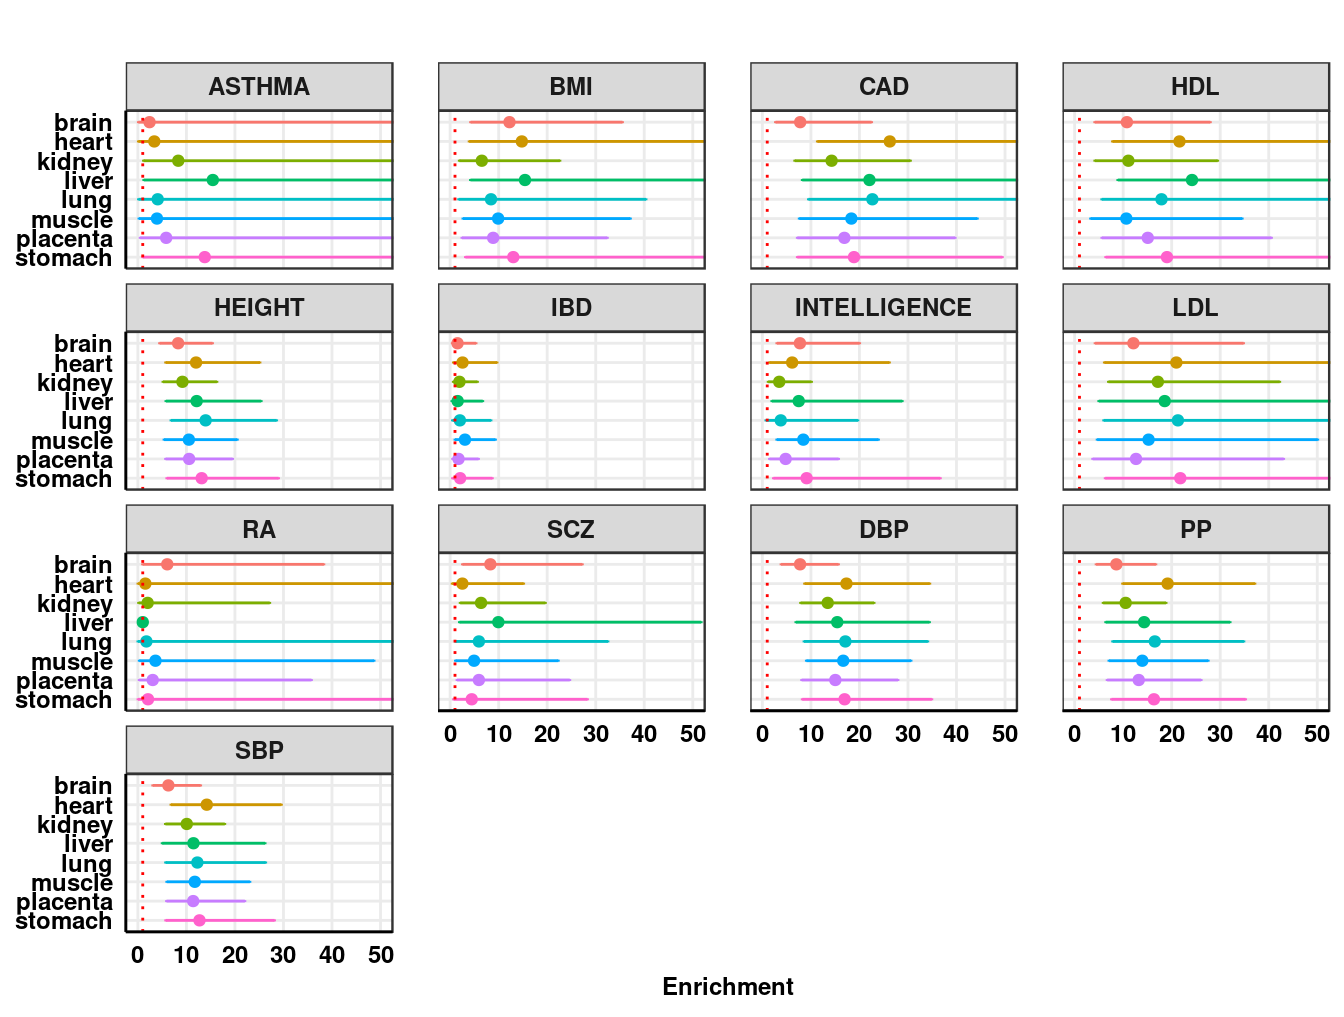
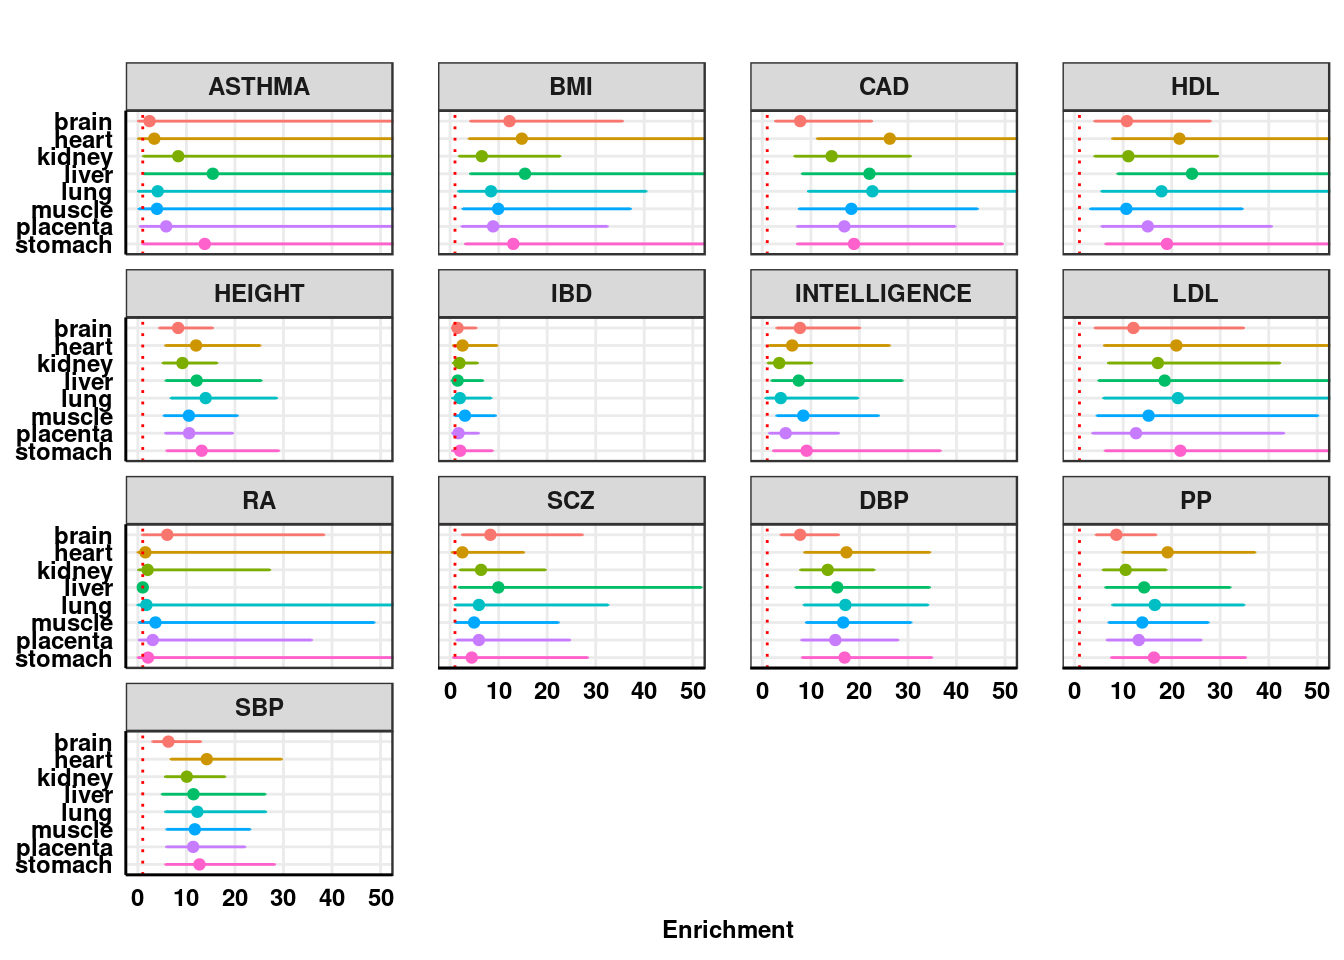
Build site.

diff --git a/docs/sldsc_torus.html b/docs/sldsc_torus.html
@@ -448,16 +448,16 @@ This reproducible <a href="http://rmarkdown.rstudio.com">R Markdown</a> analysis
 <div class="panel panel-default">
 <div class="panel-heading">
 <p class="panel-title">
-<a data-toggle="collapse" data-parent="#workflowr-checks" href="#strongRepositoryversionstrongahrefhttpsgithubcomcdu8m6AsldsctorusXiaotree946e005e9f1781c394522ba48a90f02838542edftargetblank946e005a"> <span class="glyphicon glyphicon-ok text-success" aria-hidden="true"></span> <strong>Repository version:</strong> <a href="https://github.com/cdu8/m6A_sldsc_torus_Xiao/tree/946e005e9f1781c394522ba48a90f02838542edf" target="_blank">946e005</a> </a>
+<a data-toggle="collapse" data-parent="#workflowr-checks" href="#strongRepositoryversionstrongahrefhttpsgithubcomcdu8m6AsldsctorusXiaotree192b1bfc0a5719bddc38f6c1bcbfe76e2ea36336targetblank192b1bfa"> <span class="glyphicon glyphicon-ok text-success" aria-hidden="true"></span> <strong>Repository version:</strong> <a href="https://github.com/cdu8/m6A_sldsc_torus_Xiao/tree/192b1bfc0a5719bddc38f6c1bcbfe76e2ea36336" target="_blank">192b1bf</a> </a>
 </p>
 </div>
[2 lines of base64/hex data omitted]
 <div class="panel-body">
 <p>
 Great! You are using Git for version control. Tracking code development and connecting the code version to the results is critical for reproducibility.
 </p>
 <p>
-The results in this page were generated with repository version <a href="https://github.com/cdu8/m6A_sldsc_torus_Xiao/tree/946e005e9f1781c394522ba48a90f02838542edf" target="_blank">946e005</a>. See the <em>Past versions</em> tab to see a history of the changes made to the R Markdown and HTML files.
+The results in this page were generated with repository version <a href="https://github.com/cdu8/m6A_sldsc_torus_Xiao/tree/192b1bfc0a5719bddc38f6c1bcbfe76e2ea36336" target="_blank">192b1bf</a>. See the <em>Past versions</em> tab to see a history of the changes made to the R Markdown and HTML files.
 </p>
 <p>
 Note that you need to be careful to ensure that all relevant files for the analysis have been committed to Git prior to generating the results (you can use <code>wflow_publish</code> or <code>wflow_git_commit</code>). workflowr only checks the R Markdown file, but you know if there are other scripts or data files that it depends on. Below is the status of the Git repository when the results were generated:
@@ -503,6 +503,40 @@ Message
 </tr>
 </thead>
 <tbody>
+<tr>
+<td>
+Rmd
+</td>
+<td>
+<a href="https://github.com/cdu8/m6A_sldsc_torus_Xiao/blob/192b1bfc0a5719bddc38f6c1bcbfe76e2ea36336/analysis/sldsc_torus.Rmd" target="_blank">192b1bf</a>
+</td>
+<td>
+cdu8
+</td>
+<td>
+2020-08-03
+</td>
+<td>
+wflow_publish(c(“analysis/sldsc_torus.Rmd”))
+</td>
+</tr>
+<tr>
+<td>
+html
+</td>
+<td>
+<a href="https://rawcdn.githack.com/cdu8/m6A_sldsc_torus_Xiao/807070a054fbfa87facc867d33e16ba19ef95939/docs/sldsc_torus.html" target="_blank">807070a</a>
+</td>
+<td>
+cdu8
+</td>
+<td>
+2020-08-03
+</td>
+<td>
+Build site.
+</td>
+</tr>
 <tr>
 <td>
 Rmd
@@ -1639,7 +1673,7 @@ result_torus$Color &lt;- factor(result_torus$Category, levels = annot_list)</cod
 <div id="htmlwidget-3b2f59b8f6b996fec697" style="width:100%;height:auto;" class="datatables html-widget"></div>
 <script type="application/json" data-for="htmlwidget-3b2f59b8f6b996fec697">{"x":{"style":"bootstrap","filter":"none","data":[["ASTHMA","ASTHMA","ASTHMA","ASTHMA","ASTHMA","ASTHMA","ASTHMA","ASTHMA","BMI","BMI","BMI","BMI","BMI","BMI","BMI","BMI","CAD","CAD","CAD","CAD","CAD","CAD","CAD","CAD","HDL","HDL","HDL","HDL","HDL","HDL","HDL","HDL","HEIGHT","HEIGHT","HEIGHT","HEIGHT","HEIGHT","HEIGHT","HEIGHT","HEIGHT","IBD","IBD","IBD","IBD","IBD","IBD","IBD","IBD","INTELLIGENCE","INTELLIGENCE","INTELLIGENCE","INTELLIGENCE","INTELLIGENCE","INTELLIGENCE","INTELLIGENCE","INTELLIGENCE","LDL","LDL","LDL","LDL","LDL","LDL","LDL","LDL","RA","RA","RA","RA","RA","RA","RA","RA","SCZ","SCZ","SCZ","SCZ","SCZ","SCZ","SCZ","SCZ","DBP","DBP","DBP","DBP","DBP","DBP","DBP","DBP","PP","PP","PP","PP","PP","PP","PP","PP","SBP","SBP","SBP","SBP","SBP","SBP","SBP","SBP"],["brain","heart","kidney","liver","lung","muscle","placenta","stomach","brain","heart","kidney","liver","lung","muscle","placenta","stomach","brain","heart","kidney","liver","lung","muscle","placenta","stomach","brain","heart","kidney","liver","lung","muscle","placenta","stomach","brain","heart","kidney","liver","lung","muscle","placenta","stomach","brain","heart","kidney","liver","lung","muscle","placenta","stomach","brain","heart","kidney","liver","lung","muscle","placenta","stomach","brain","heart","kidney","liver","lung","muscle","placenta","stomach","brain","heart","kidney","liver","lung","muscle","placenta","stomach","brain","heart","kidney","liver","lung","muscle","placenta","stomach","brain","heart","kidney","liver","lung","muscle","placenta","stomach","brain","heart","kidney","liver","lung","muscle","placenta","stomach","brain","heart","kidney","liver","lung","muscle","placenta","stomach"],[" 2.4"," 3.4"," 8.3","15.4"," 4.1"," 3.9"," 5.8","13.8","12.2","14.8"," 6.5","15.4"," 8.4"," 9.9"," 8.9","13.0"," 7.8","26.3","14.3","22.1","22.7","18.3","16.9","18.9","10.8","21.6","11.1","24.2","17.9","10.7","15.1","19.0"," 8.3","12.0"," 9.2","12.1","14.0","10.5","10.6","13.1"," 1.5"," 2.6"," 1.9"," 1.6"," 2.0"," 3.1"," 1.7"," 2.1"," 7.7"," 6.1"," 3.5"," 7.5"," 3.8"," 8.4"," 4.8"," 9.1","12.1","21.0","17.2","18.6","21.3","15.2","12.7","21.8"," 6.0"," 1.5"," 2.0"," 1.0"," 1.8"," 3.6"," 3.1"," 2.1"," 8.3"," 2.5"," 6.4"," 9.9"," 5.9"," 4.9"," 5.9"," 4.5"," 7.8","17.3","13.5","15.4","17.1","16.7","15.0","16.9"," 8.6","19.2","10.5","14.3","16.5","13.9","13.2","16.3"," 6.3","14.2","10.1","11.5","12.3","11.7","11.4","12.7"],["9.2e-02","9.0e-02","1.1e+00","1.2e+00","1.2e-01","2.1e-01","4.6e-01","1.0e+00","4.2e+00","3.9e+00","1.9e+00","4.2e+00","1.8e+00","2.6e+00","2.4e+00","3.2e+00","2.7e+00","1.1e+01","6.7e+00","8.2e+00","9.5e+00","7.6e+00","7.2e+00","7.2e+00","4.1e+00","7.8e+00","4.2e+00","8.9e+00","5.6e+00","3.3e+00","5.6e+00","6.4e+00","4.5e+00","5.7e+00","5.2e+00","5.8e+00","6.8e+00","5.4e+00","5.7e+00","6.0e+00","4.3e-01","6.8e-01","6.5e-01","3.6e-01","4.8e-01","1.0e+00","5.1e-01","4.9e-01","3.0e+00","1.4e+00","1.2e+00","1.9e+00","7.3e-01","3.0e+00","1.5e+00","2.3e+00","4.2e+00","6.1e+00","7.0e+00","5.0e+00","6.0e+00","4.6e+00","3.7e+00","6.3e+00","9.6e-01","1.3e-02","1.5e-01","5.4e-01","5.5e-05","2.7e-01","2.6e-01","1.8e-02","2.5e+00","4.2e-01","2.1e+00","1.9e+00","1.1e+00","1.1e+00","1.4e+00","7.0e-01","3.8e+00","8.7e+00","7.9e+00","6.9e+00","8.6e+00","9.1e+00","8.1e+00","8.2e+00","4.4e+00","9.9e+00","5.9e+00","6.4e+00","7.8e+00","7.1e+00","6.7e+00","7.6e+00","3.1e+00","6.8e+00","5.7e+00","5.0e+00","5.7e+00","6.0e+00","5.9e+00","5.7e+00"],["   62.6","  127.1","   60.2","  196.0","  138.7","   72.0","   73.6","  190.6","   35.5","   55.7","   22.6","   56.9","   40.4","   37.2","   32.4","   53.7","   22.5","   60.9","   30.5","   59.2","   54.2","   44.3","   39.7","   49.5","   28.0","   59.9","   29.5","   65.8","   57.3","   34.5","   40.6","   56.5","   15.4","   25.2","   16.3","   25.4","   28.6","   20.5","   19.5","   29.0","    5.3","    9.7","    5.6","    6.7","    8.4","    9.3","    5.8","    8.7","   20.0","   26.2","   10.1","   28.8","   19.7","   23.9","   15.7","   36.7","   34.8","   71.9","   42.3","   69.1","   75.6","   50.1","   43.1","   75.3","   38.3","  183.3","   27.2","    1.9","55770.5","   48.7","   35.8","  242.0","   27.2","   15.1","   19.6","   51.7","   32.5","   22.3","   24.7","   28.3","   15.7","   34.5","   23.0","   34.4","   34.1","   30.6","   27.9","   34.9","   16.7","   37.2","   18.8","   32.0","   34.9","   27.5","   26.1","   35.2","   12.9","   29.6","   17.9","   26.2","   26.3","   23.1","   22.0","   28.2"]],"container":"<table class=\"table table-bordered table-striped\">\n  <thead>\n    <tr>\n      <th>Disease<\/th>\n      <th>Category<\/th>\n      <th>Enrichment<\/th>\n      <th>Low<\/th>\n      <th>High<\/th>\n    <\/tr>\n  <\/thead>\n<\/table>","options":{"scrollX":true,"keys":true,"pageLength":8,"order":[],"autoWidth":false,"orderClasses":false,"lengthMenu":[8,10,25,50,100]}},"evals":[],"jsHooks":[]}</script>
 <pre class="r"><code>ggplot_enrichment(result_torus, title = &quot;&quot;, xlim = c(0,50))</code></pre>
-<p><img src="figure/sldsc_torus.Rmd/torus%20plots-1.png" width="672" style="display: block; margin: auto;" /></p>
+<p><img src="figure/sldsc_torus.Rmd/torus%20plots-1.png" width="672" height="133%" style="display: block; margin: auto;" /></p>
 <p>
 <button type="button" class="btn btn-default btn-xs btn-workflowr btn-workflowr-fig" data-toggle="collapse" data-target="#fig-no-spaces-torus-plots-1">
 Past versions of “torus plots-1.png”
@@ -1662,6 +1696,17 @@ Date
 </tr>
 </thead>
 <tbody>
+<tr>
+<td>
+<a href="https://github.com/cdu8/m6A_sldsc_torus_Xiao/blob/807070a054fbfa87facc867d33e16ba19ef95939/docs/figure/sldsc_torus.Rmd/torus plots-1.png" target="_blank">807070a</a>
+</td>
+<td>
+cdu8
+</td>
+<td>
+2020-08-03
+</td>
+</tr>
 <tr>
 <td>
 <a href="https://github.com/cdu8/m6A_sldsc_torus_Xiao/blob/0460c8cfe7623bb1b4244d9892cda2bdea826cf1/docs/figure/sldsc_torus.Rmd/torus plots-1.png" target="_blank">0460c8c</a>
@@ -1843,7 +1888,7 @@ cdu8
 </div>
 </div>
 <pre class="r"><code>ggplot_log2_enrichment(result_torus, title = &quot;&quot;, xlim=c(0,6))</code></pre>
-<p><img src="figure/sldsc_torus.Rmd/torus%20plots-2.png" width="672" style="display: block; margin: auto;" /></p>
+<p><img src="figure/sldsc_torus.Rmd/torus%20plots-2.png" width="672" height="133%" style="display: block; margin: auto;" /></p>
 <p>
 <button type="button" class="btn btn-default btn-xs btn-workflowr btn-workflowr-fig" data-toggle="collapse" data-target="#fig-no-spaces-torus-plots-2">
 Past versions of “torus plots-2.png”
@@ -1866,6 +1911,17 @@ Date
 </tr>
 </thead>
 <tbody>
+<tr>
+<td>
+<a href="https://github.com/cdu8/m6A_sldsc_torus_Xiao/blob/807070a054fbfa87facc867d33e16ba19ef95939/docs/figure/sldsc_torus.Rmd/torus plots-2.png" target="_blank">807070a</a>
+</td>
+<td>
+cdu8
+</td>
+<td>
+2020-08-03
+</td>
+</tr>
 <tr>
 <td>
 <a href="https://github.com/cdu8/m6A_sldsc_torus_Xiao/blob/0460c8cfe7623bb1b4244d9892cda2bdea826cf1/docs/figure/sldsc_torus.Rmd/torus plots-2.png" target="_blank">0460c8c</a>
